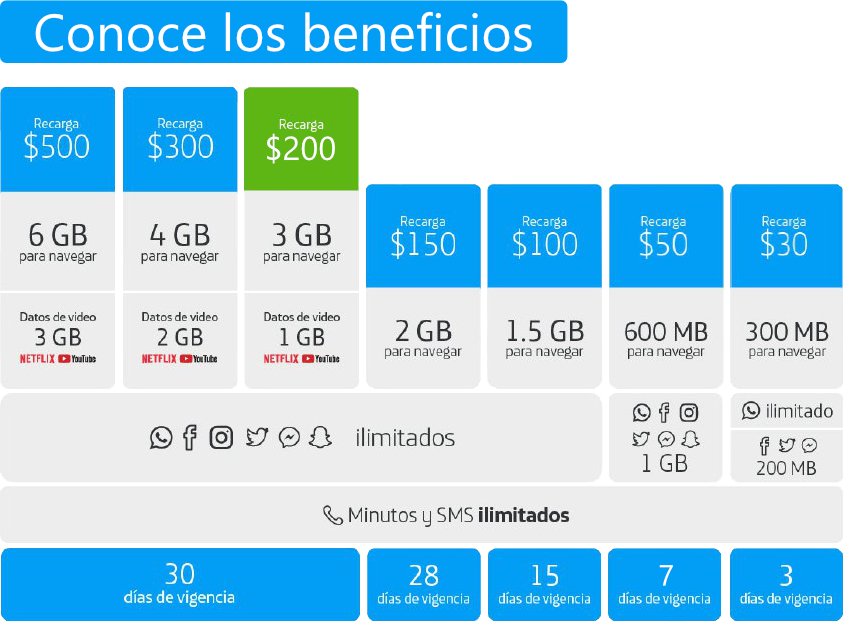
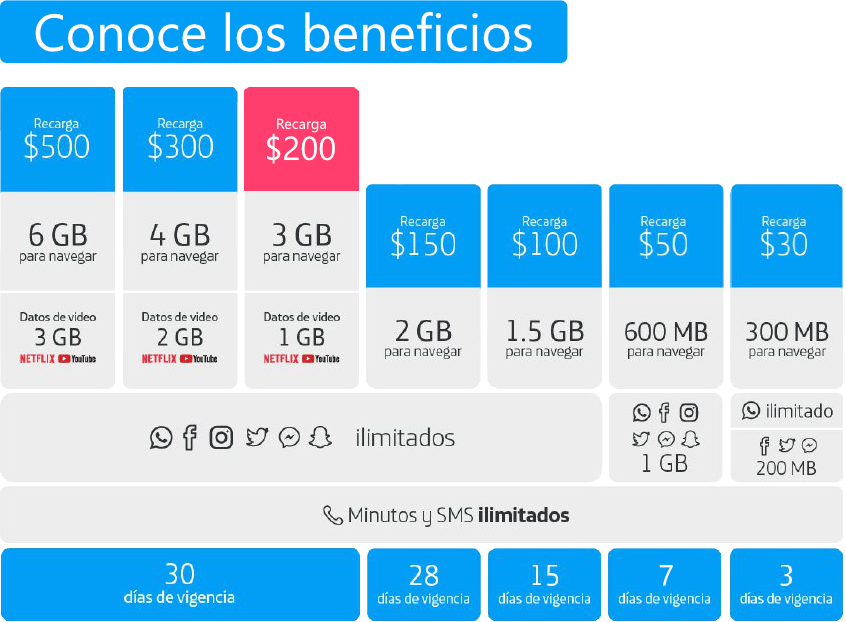
Cambios estilo movistar

Changed region(s): [[0.2766, 0.1222, 0.4303, 0.3055]]

diff --git a/pages/reward.vue b/pages/reward.vue
@@ -142,7 +142,7 @@ export default {
       &.init {
         background-image: initial;
         background-color: white;
-        color: var(--movistar-color);
+        color: var(--movistar-pink-color);
       }
 
       &.final {

diff --git a/assets/css/utils/_variables.scss b/assets/css/utils/_variables.scss
@@ -10,4 +10,5 @@
   --movistar-color: #62c802;
   --unefon-color: #f3c414;
   --movistar-blue-color: #029ef5;
+  --movistar-pink-color: #ff3e6e;
 }
